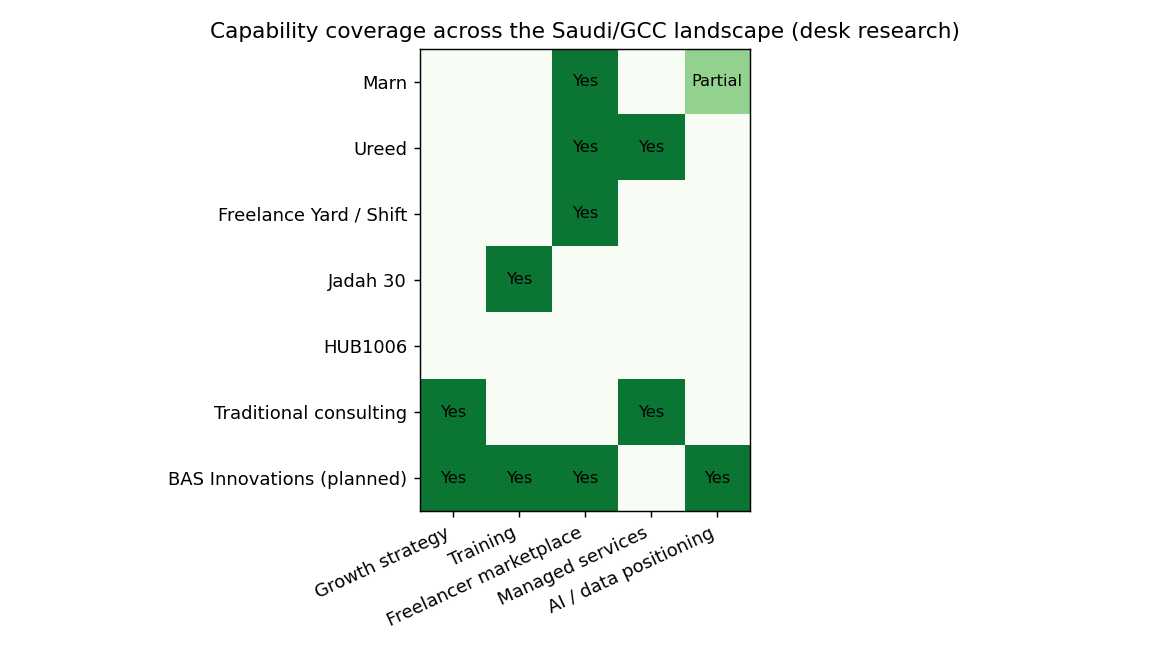
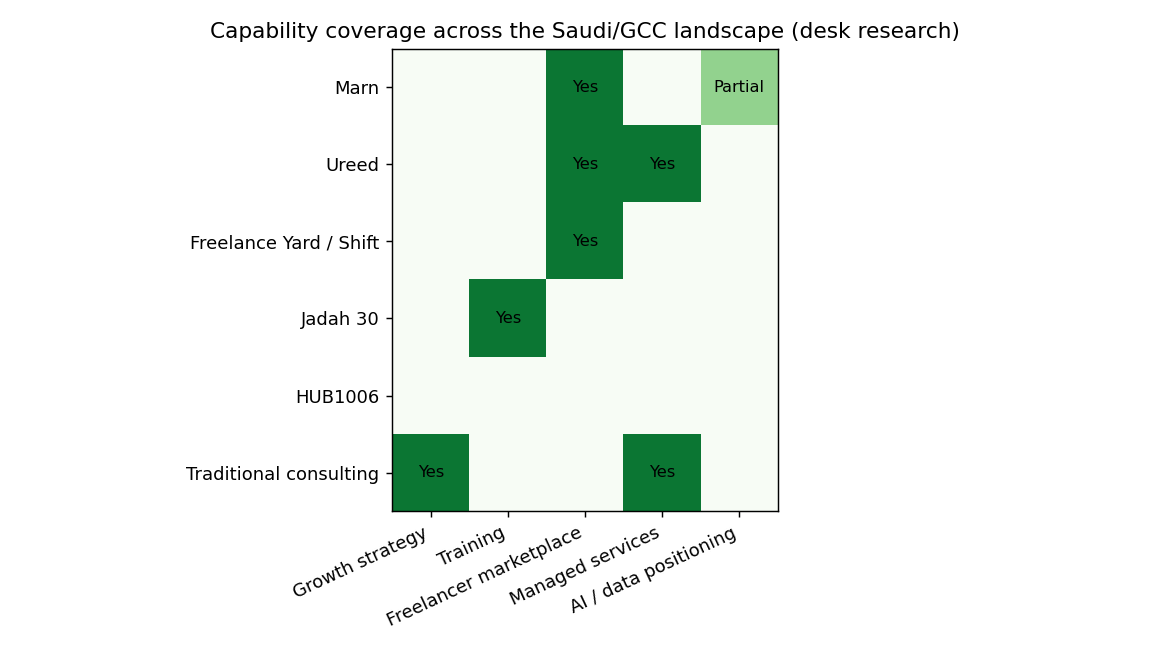
Remove BAS planned services from analysis
Claude-Session: https://claude.ai/code/session_01REP64kk5JbbpwV1q8aM1GL

diff --git a/README.md b/README.md
@@ -1,9 +1,9 @@
 # BAS Market Landscape Analysis
 
-A small Python analysis of the Saudi/GCC market for business development, training and freelancing. I did it while working on BAS Innovations' positioning, to see where BAS could stand out.
+A small Python analysis of the Saudi/GCC market for business development, training and freelancing. I did it while researching the market for BAS Innovations, to see where the gaps are.
 
 ## The data
-I researched six players from their public descriptions: Marn, Ureed, Freelance Yard / Shift, Jadah 30, HUB1006 and traditional consulting firms. Then I added BAS's planned services for comparison. For each one, I scored five capabilities: growth strategy, training, freelancer marketplace, managed services, and AI/data positioning. 1 means clearly offered, 0.5 means partly, and 0 means not a focus.
+I researched six players from their public descriptions: Marn, Ureed, Freelance Yard / Shift, Jadah 30, HUB1006 and traditional consulting firms. For each one, I scored five capabilities: growth strategy, training, freelancer marketplace, managed services, and AI/data positioning. 1 means clearly offered, 0.5 means partly, and 0 means not a focus.
 
 These scores are my own judgement, not measured data. The sample is small, and I didn't check every player's website in depth.
 
@@ -21,7 +21,7 @@ python analyze.py
 ## What I found
 - Freelancer marketplaces are the most crowded area, with 3 of the 6 players.
 - Nobody leads with AI or data. Only Marn comes close, with its AI skill assessment.
-- No competitor covers more than 2 of the 5 capabilities. BAS plans to cover 4.
+- No player covers more than 2 of the 5 capabilities, so combining several of them in one offer is rare.
 
 ## Limits
 Only a few players, subjective scoring, and the list isn't complete. Next, I'd add more players and check each score against the company's own materials.
